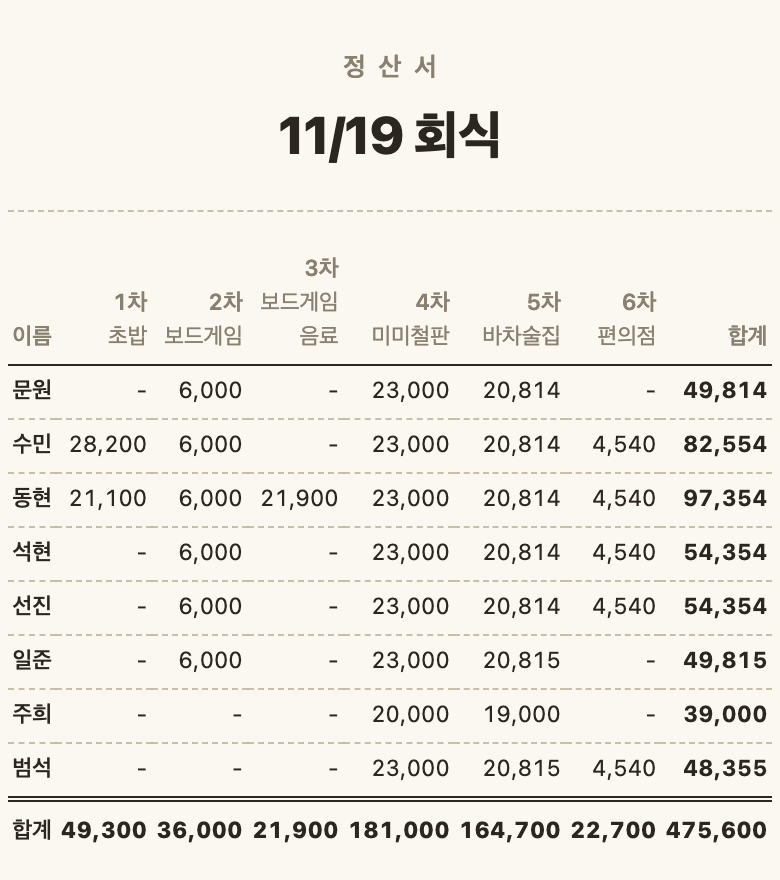
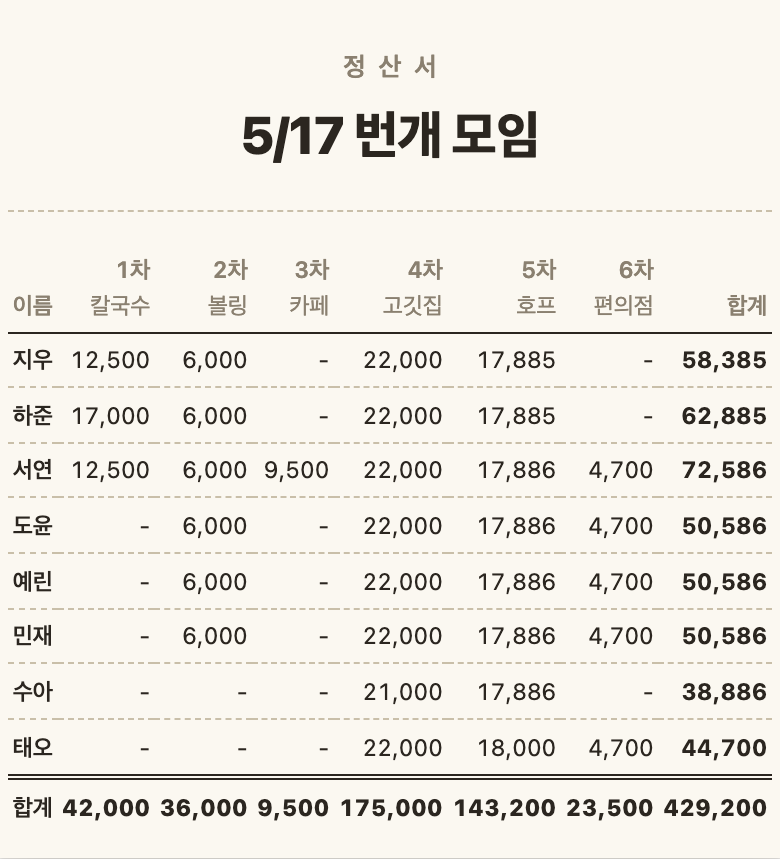
docs: README와 스크린샷 예시를 가상 데이터로 교체 (#32)
* fix(app): use a fictional venue in the round name placeholder

Refs #31

* docs: replace the README example and screenshot with fictional data

Refs #31

---------

diff --git a/index.html b/index.html
@@ -405,7 +405,7 @@ function roundCard(round, i) {
   const name = document.createElement('input');
   name.type = 'text';
   name.className = 'name';
-  name.placeholder = '이름 (예: 미미철판)';
+  name.placeholder = '이름 (예: 칼국수)';
   name.setAttribute('aria-label', n + ' 이름');
   name.autocomplete = 'off';
   name.dataset.key = k('name');

diff --git a/README.md b/README.md
@@ -2,7 +2,7 @@
 
 약속 뒤에 N차까지 간 회식비를 정산하는 웹 앱이에요. 인원과 차수별 금액을 입력하면 사람마다 낼 금액이 정산서 표로 나와요. 이 표를 캡처해서 메신저로 공유하면 돼요.
 
-![결산 화면의 정산서. 8명, 6차수, 합계 475,600원](screenshot.png)
+![결산 화면의 정산서. 8명, 6차수, 합계 429,200원](screenshot.png)
 
 ## 웹에서 바로 쓰기
 
